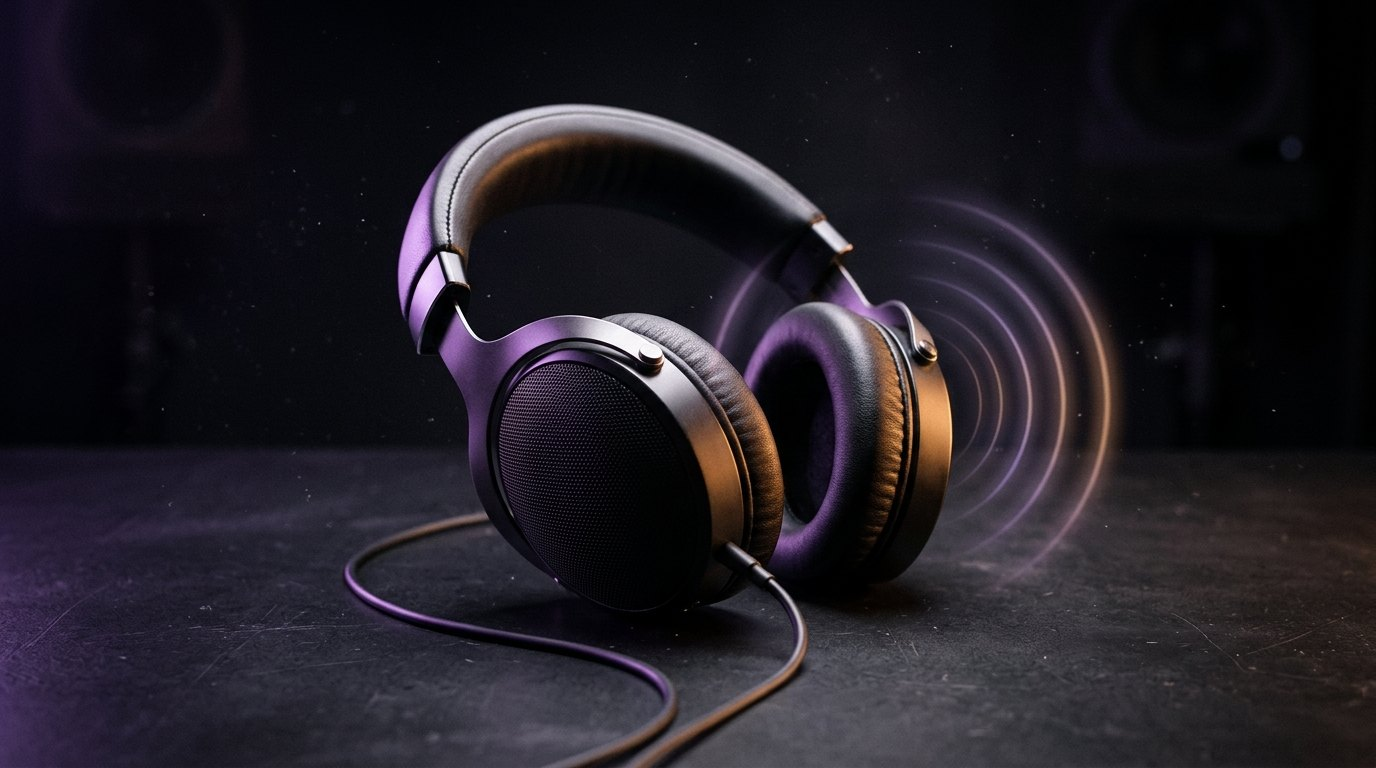
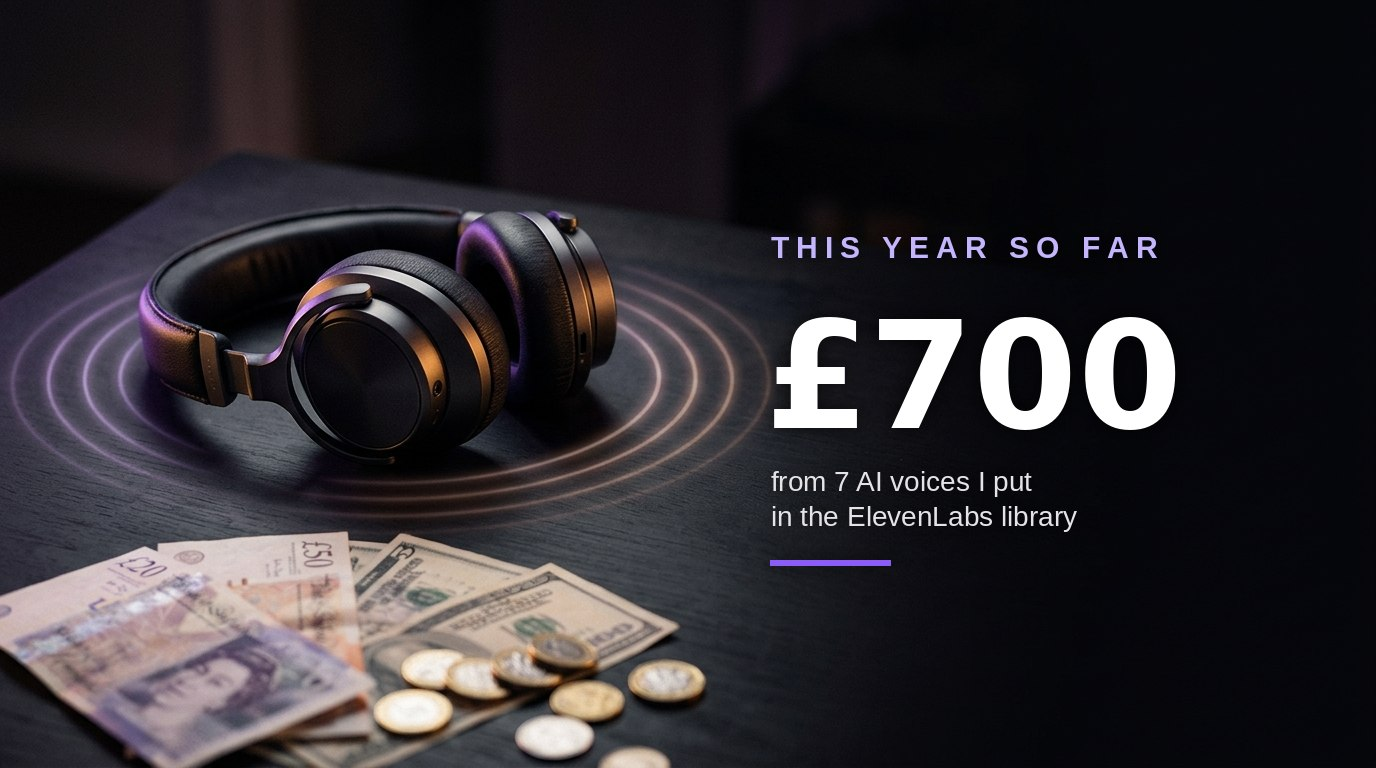
Rewrite ASMR post in Hector's voice (no em dashes) + money hero image with £700

diff --git a/how-to-make-asmr-audio-with-ai.html b/how-to-make-asmr-audio-with-ai.html
@@ -11,11 +11,11 @@
 </script>
   <meta charset="UTF-8">
   <meta name="viewport" content="width=device-width, initial-scale=1.0">
-  <title>How to Make ASMR Audio With AI (And Make Money With It) — 2026 | Hector's Hustles</title>
-  <meta name="description" content="You don't need a 3Dio or a treated room. How to make ASMR audio with AI voices — and the four ways people actually get paid for it in 2026.">
+  <title>How to Make ASMR Audio With AI (And Make Money With It) - 2026 | Hector's Hustles</title>
+  <meta name="description" content="You don't need a 3Dio or a treated room. How to make ASMR audio with AI voices, and the four ways people actually get paid for it in 2026.">
   <meta property="og:type" content="article">
-  <meta property="og:title" content="How to Make ASMR Audio With AI (And Make Money With It) — 2026">
-  <meta property="og:description" content="You don't need a 3Dio or a treated room. How to make ASMR audio with AI voices — and the four ways people actually get paid for it in 2026.">
+  <meta property="og:title" content="How to Make ASMR Audio With AI (And Make Money With It) - 2026">
+  <meta property="og:description" content="You don't need a 3Dio or a treated room. How to make ASMR audio with AI voices, and the four ways people actually get paid for it in 2026.">
   <meta property="og:image" content="https://hectorshustles.com/assets/asmr-ai-hero.jpg">
   <meta property="og:url" content="https://hectorshustles.com/how-to-make-asmr-audio-with-ai.html">
   <meta name="twitter:card" content="summary_large_image">
@@ -37,7 +37,7 @@
         "name": "Can AI whisper convincingly enough for ASMR?",
         "acceptedAnswer": {
           "@type": "Answer",
-          "text": "Yes — whispered speech and soft-spoken narration are what current voice models do best. Where they fall short is physical trigger sounds like tapping and brushing, which still need a real object and a real mic."
+          "text": "Yes, whispered speech and soft-spoken narration are what current voice models do best. Where they fall short is physical trigger sounds like tapping and brushing, which still need a real object and a real mic."
         }
       },
       {
@@ -61,7 +61,7 @@
         "name": "Can I sell ASMR audio made with AI voices?",
         "acceptedAnswer": {
           "@type": "Answer",
-          "text": "Yes, on platforms that allow synthetic voices — YouTube, Patreon, audiobook stores, and direct commissions all work. Always check the platform's current AI policy and disclose the AI voice where required."
+          "text": "Yes, on platforms that allow synthetic voices: YouTube, Patreon, audiobook stores, and direct commissions all work. Always check the platform's current AI policy and disclose the AI voice where required."
         }
       },
       {
@@ -69,7 +69,7 @@
         "name": "Do I have to tell listeners the voice is AI?",
         "acceptedAnswer": {
           "@type": "Answer",
-          "text": "Where the platform requires disclosure, yes — and it is good practice everywhere else. Label it once in the description and move on; most listeners care about the experience, not the tool."
+          "text": "Where the platform requires disclosure, yes, and it is good practice everywhere else. Label it once in the description and move on; most listeners care about the experience, not the tool."
         }
       }
     ]
@@ -103,95 +103,95 @@
 
       <figure class="mb-8">
         <img src="assets/asmr-ai-hero.jpg"
-             alt="Over-ear headphones on a dark surface with glowing sound waves, illustrating AI-generated ASMR audio"
+             alt="Over-ear headphones and banknotes on a dark surface with glowing sound waves, with £700 earned from AI voices overlaid"
              width="1376" height="768" loading="eager" decoding="async"
              class="w-full rounded-2xl border border-zinc-200 shadow-sm object-cover">
         <figcaption class="mt-3 text-xs text-zinc-500">Voice models handle the whisper; the textures still need a real mic.</figcaption>
       </figure>
 
       <div class="prose prose-zinc max-w-none text-[15px] leading-relaxed">
-        <p>You don't need a 3Dio microphone or a treated room to make ASMR audio in 2026. Modern AI voices can whisper, pause, breathe, and hold a slow, sleepy pace well enough that most listeners can't tell the difference from a real soft-spoken narrator — and you can generate a full night of sleep audio from a laptop for almost nothing. Here's the honest part, though: AI can do the voice, not the textures. Tapping on wood, brushing a microphone, crinkling paper — none of that can be faked convincingly by a voice model. This guide shows you exactly what AI is good at, what still needs a real mic, and how to combine the two.</p>
+        <p>I'll be honest, you don't need a 3Dio mic or a treated room to make ASMR audio in 2026, because I've been generating whispered voice tracks from my laptop and most listeners can't tell them apart from a real soft spoken narrator. The models I've used can whisper and pause and breathe a bit, and they hold a slow sleepy pace. But here's the honest bit I've learned the hard way: AI can do the voice and it can't do the textures. Tapping on wood, brushing a mic, crinkling paper, none of that fakes well in my experience. So here's what I've found AI is good at, what still needs a real mic, and how I'd combine the two.</p>
 
-        <p>I've spent this year working with AI voices — <a href="how-i-made-700-from-voice-cloning-in-2026.html" class="text-violet-600 hover:underline">I made £700 with voice cloning</a> on ElevenLabs in 2026 — so this isn't theory. Below is the workflow I'd actually use: write a slow script, generate the voice in short chunks, layer real textures underneath, and master it for headphones.</p>
+        <p>I've spent this year messing about with AI voices, and I already wrote about how <a href="how-i-made-700-from-voice-cloning-in-2026.html" class="text-violet-600 hover:underline">I made £700 with voice cloning</a> on ElevenLabs in 2026, so this isn't theory I've nicked from somewhere else. Below is the workflow I'd actually use: write a slow script, generate the voice in short chunks, layer real textures underneath, and master it for headphones.</p>
 
-        <h3 class="font-semibold mt-8 mb-3">What AI is actually good at</h3>
-        <p>The current generation of voice models is genuinely good at the vocal side of ASMR. Whispered speech is the standout: a good model holds a soft, breathy whisper without drifting into a stage whisper or going robotic, which is exactly what sleep tracks need. Soft-spoken narration is just as strong — calm, bedtime-story delivery with natural intonation.</p>
+        <h3 class="font-semibold mt-8 mb-3">What I've found AI is actually good at</h3>
+        <p>I'll start with what surprised me most, because whispered speech is where these models really shine for me. A good voice holds a soft breathy whisper without sliding into a stage whisper or going robotic, and that's exactly what I've wanted for sleep tracks. Soft spoken narration is just as strong, that calm bedtime story delivery that doesn't jar you awake.</p>
 
-        <p>Pacing is the quiet superpower. You can slow a voice down, stretch the pauses between lines, and place breaths where a human narrator would take them. Reworking pacing on a real recording means re-recording; with AI, you regenerate a line with more space around it. That alone saves hours on every track.</p>
+        <p>Pacing is the bit I didn't appreciate until I'd made a few tracks, and now I'd call it the quiet superpower. I slow the voice down and stretch the pauses between lines, and I drop breaths in where I'd take them myself. If a line feels rushed then I just regenerate it with more space around it. When I've recorded myself in the past, fixing pacing meant recording it all again, which drove me mad.</p>
 
-        <p>Multiple voices is another real edge. A series with three different soft-spoken narrators, or a sleep story with a narrator plus a second character, can be cast in an afternoon from stock voices — no scheduling, no sessions, no retakes. And consistency comes free: a model never gets a sore throat, never has a bad-mic day, and sounds identical in episode forty as it did in episode one. For a channel publishing nightly sleep audio, that matters more than people expect.</p>
+        <p>The other thing I've loved is casting multiple voices without any faff. I wanted a short series with a narrator plus a softer second character, and I cast both in an afternoon from stock voices, with no scheduling and no retakes. ElevenLabs has 11,000+ voices in the library, so I've never struggled to find a soft one I liked. And consistency comes free, which matters more than I expected: the model never gets a sore throat, so it sounds the same in every episode I make.</p>
 
         <div class="my-8 text-center">
           <a href="https://try.elevenlabs.io/fastaudiobook" rel="sponsored nofollow noopener" target="_blank" class="inline-block bg-violet-600 text-white font-semibold px-6 py-3 rounded-xl hover:bg-violet-700 transition-colors">Try the AI voices free →</a>
         </div>
 
         <h3 class="font-semibold mt-8 mb-3">What AI still can't fake</h3>
-        <p>Now the other side, stated plainly: AI voices cannot fake physical trigger sounds. Tapping on wood, glass, or plastic. Crinkling paper or foil. Brushing bristles across a microphone grille. Scratching, water sounds, soft clicks and mouth sounds made centimetres from a real diaphragm. These are textures, not speech, and voice models are trained on speech.</p>
+        <p>Now the other side, and I'll be blunt because I wasted time here. AI voices can't fake physical trigger sounds, in my experience. I mean tapping on wood or glass, crinkling paper, brushing bristles across a mic grille, and those soft close mic clicks made right against a real diaphragm. These are textures and not speech, and voice models are trained on speech.</p>
 
-        <p>You can hear the difference immediately. Generated "tapping" sounds like a drum sample; real tapping carries tiny variations in angle, pressure, and resonance that no model reproduces. And ASMR listeners are the most attentive audience on the internet — people who fall asleep to this every night notice in seconds.</p>
+        <p>You'll hear the difference straight away, I did. Generated tapping sounds like a drum sample to me, while real tapping carries tiny variations in angle and pressure that I've never heard a model reproduce. And ASMR listeners are the most attentive audience I've come across, because people who fall asleep to this nightly will notice in seconds.</p>
 
-        <p>So the rule is simple: if the sound comes from vocal cords, AI can probably do it. If it comes from an object, a surface, or physical contact with a microphone, you need the real thing. That doesn't kill the AI workflow — it just means the textures get recorded and the voice gets generated.</p>
+        <p>So the rule I've settled on is simple. If the sound comes from vocal cords then I'd let AI have a go, and if it comes from an object or a surface or contact with a mic then I'll record the real thing. That doesn't kill the AI workflow, it just splits the job. I record the textures and I generate the voice.</p>
 
         <h3 class="font-semibold mt-8 mb-3">Three routes</h3>
-        <p><strong>Route A: text to voice.</strong> Pick a stock soft voice, paste your script, generate. This is the fastest and cheapest route — minutes from idea to finished voice track — and it's genuinely good for whispered sleep audio, guided relaxation, and soft-spoken narration where your own voice doesn't matter. The tradeoff: anyone can use the same stock voices, so your edge has to come from the script and the sound design, not the voice itself.</p>
+        <p><strong>Route A: text to voice.</strong> This is what I'd do if I wanted something out tonight. I pick a soft stock voice and paste my script in and generate, and I've gone from idea to finished voice track in minutes this way. It's genuinely good for whispered sleep audio and guided relaxation where my own voice doesn't matter. The tradeoff is that anyone can use the same stock voices, so my edge has to be the script and the sound design.</p>
 
-        <p><strong>Route B: clone your own whisper.</strong> Record around 30 minutes of clean audio of yourself speaking softly — a quiet room, no background noise, steady distance from the mic — and train a clone of your own voice. Then you can whisper with it at 2am without waking anyone, generate retakes without re-recording, and keep one recognisable voice across every upload. The 30 minutes of clean recording is the real cost here: rushed or noisy source audio produces a clone that sounds wrong at whisper volume, where every artefact shows. Take the session seriously and the clone repays it.</p>
+        <p><strong>Route B: clone your own whisper.</strong> For this one I recorded around 30 minutes of clean audio of myself speaking softly, and I'd treat that as the minimum. I sat in a quiet room with no background noise and kept a steady distance from the mic, then trained a clone of my own voice. After that I could whisper with it late at night without waking anyone, and I've kept one recognisable voice across everything. The 30 minutes of clean recording is the real cost here, because rushed source audio gives you a clone that sounds wrong at whisper volume, where every artefact shows.</p>
 
-        <p><strong>Route C: hybrid (recommended).</strong> Record the textures yourself — tapping, brushing, page turns, room tone — and generate the voice. Then layer them together. The voice carries the script, the real textures carry the tingles, and the combination sounds like a full studio production. This is the route I'd recommend to anyone serious about ASMR as a channel or a product. It needs a mic (see the gear section below), but it's still a fraction of the cost and time of recording everything live.</p>
+        <p><strong>Route C: hybrid (recommended).</strong> This is the route I'd recommend if you're serious about ASMR as a channel or a product. I record the textures myself, so tapping and brushing and page turns and room tone, and I generate the voice, then I layer them together. The voice carries my script and the real textures carry the tingles. It needs a mic, which I've covered in the gear bit below, but it's far less time than recording everything live.</p>
 
         <h3 class="font-semibold mt-8 mb-3">Step by step</h3>
         <ol class="list-decimal pl-5 space-y-2 mt-4">
-          <li><strong>Write the script in short lines.</strong> ASMR scripts are closer to poetry than prose: one idea per line, plenty of white space, pauses written in. Read it aloud slowly — if you stumble, the generated voice will sound awkward in the same spot.</li>
-          <li><strong>Choose a soft voice.</strong> Pick a whisper-friendly stock voice or your clone. Generate a test paragraph and listen on headphones before committing to a full script.</li>
-          <li><strong>Slow the pacing.</strong> Drop the speed and widen the gaps between lines. Sleep audio runs noticeably slower than conversation. If your tool has stability or expressiveness settings, favour stability for whispers: fewer surprises.</li>
-          <li><strong>Generate in short chunks.</strong> Generate a paragraph or two at a time, never the whole script at once. Short chunks let you reject bad takes cheaply, fix mispronunciations, and keep pacing consistent. Stitch the keepers together in a free editor like Audacity.</li>
-          <li><strong>Layer an ambient bed.</strong> Put something soft under the voice: rain, brown noise, quiet room tone, gentle music with no percussion. Keep it low — the voice stays in front. This single step is what separates "AI voiceover" from "ASMR audio".</li>
-          <li><strong>Master for headphones.</strong> Light compression to even out the whisper, a gentle lift in the highs for clarity, and a loudness pass so the quietest lines stay audible. Export at the best quality your platform accepts, then listen to the whole thing on earbuds in bed. That's your QA environment.</li>
+          <li><strong>Write the script in short lines.</strong> I've learned ASMR scripts are closer to poetry than prose, so I write one idea per line with loads of white space and I write the pauses in. I read mine aloud slowly first, because if I stumble then the generated voice sounds awkward in the same spot.</li>
+          <li><strong>Choose a soft voice.</strong> I pick a whisper friendly stock voice or my clone, then I generate a test paragraph and listen on headphones before I'll commit to a full script. I've skipped this before and regretted it.</li>
+          <li><strong>Slow the pacing.</strong> I drop the speed and widen the gaps between lines, because sleep audio runs noticeably slower than conversation. If the tool has stability settings then I'd favour stability for whispers, since I've found fewer surprises is what you want.</li>
+          <li><strong>Generate in short chunks.</strong> I generate a paragraph or two at a time and never the whole script at once. Short chunks let me bin bad takes cheaply and fix mispronunciations, and they keep my pacing consistent. Then I stitch the keepers together in Audacity, which is free and does the job for me.</li>
+          <li><strong>Layer an ambient bed.</strong> I put something soft under the voice, like rain or brown noise or quiet room tone. I keep it low so the voice stays in front. This single step is what separates AI voiceover from ASMR audio in my tracks.</li>
+          <li><strong>Master for headphones.</strong> I use light compression to even out the whisper and a gentle lift in the highs for clarity, then a loudness pass so my quietest lines stay audible. I export at the best quality the platform accepts, then I listen to the whole thing on earbuds in bed. That's my QA, and I've caught loads that way.</li>
         </ol>
 
         <h3 class="font-semibold mt-8 mb-3">Gear reality check</h3>
-        <p>Forums will tell you to buy a binaural 3Dio-style rig, acoustic panels, and an expensive microphone before uploading anything. Ignore that. Here's what's genuinely needed for each route.</p>
+        <p>Forums will tell you to buy a binaural rig and acoustic panels and a pricey mic before you upload anything, and I'd say ignore all that. I've made perfectly listenable stuff without any of it. Here's what I've actually needed for each route.</p>
 
-        <p><strong>Voice-only (Routes A and B):</strong> a laptop and headphones. The voice is generated, so your recording gear barely matters. A phone mic is fine to start for the Route B training recording if the room is quiet — record in a wardrobe full of clothes and you'll be shocked how clean it sounds.</p>
+        <p><strong>Voice-only (Routes A and B):</strong> I've just used a laptop and headphones. The voice is generated so my recording gear barely matters, which still feels like cheating. A phone mic was fine for my first Route B training recording because the room was quiet, and I've recorded in a wardrobe full of clothes and been shocked how clean it sounded.</p>
 
-        <p><strong>Hybrid (Route C):</strong> a USB mic. A Blue Yeti or equivalent with a pop filter is plenty for tapping, brushing, and room tone. Record close, record quiet, record lots of variations. Buy the fancy binaural setup later, after the channel has earned it.</p>
+        <p><strong>Hybrid (Route C):</strong> I've used a USB mic and that's been plenty. A Blue Yeti or similar with a pop filter does tapping and brushing and room tone nicely. I record close and quiet and I record loads of variations. I'd only buy the fancy binaural setup later, after the channel has earned it.</p>
 
-        <h3 class="font-semibold mt-8 mb-3">How to actually make money with it</h3>
-        <p>Four routes, roughly in order of how quickly they pay. None of them are fast at the start — the first month is usually £0 regardless of which you pick. What compounds is the catalogue.</p>
-        <p><strong>YouTube plus Patreon</strong> is the classic stack: YouTube for discovery and ad revenue, Patreon for early access, exclusive tracks, and custom requests from subscribers. Sleep content earns long watch times, which the algorithm rewards.</p>
+        <h3 class="font-semibold mt-8 mb-3">How I'd actually make money with it</h3>
+        <p>I see four routes here, roughly in the order I'd expect them to pay, though I've not tried them all equally. None is fast at the start, and I'd be wary of anyone who says otherwise. What compounds is the catalogue, so that's the bit I'd focus on.</p>
+        <p><strong>YouTube plus Patreon</strong> is the classic stack I'd start with. I'd use YouTube for discovery and ad revenue, and Patreon for early access and exclusive tracks and custom requests. I've noticed sleep content earns long listening sessions, which seems to help with discovery.</p>
 
-        <p><strong>Sleep and meditation apps</strong> license or commission relaxation audio. Pitch finished tracks, not ideas — a small portfolio of polished sleep audios opens doors a pitch deck never will.</p>
+        <p><strong>Sleep and meditation apps</strong> are the second route I'd look at, since they license or commission relaxation audio. I'd pitch finished tracks and not ideas, because a small portfolio of polished sleep audios opens doors a pitch deck never will. It's on my list.</p>
 
-        <p><strong>Whisper-narrated audiobooks</strong> are an under-served niche: short fiction, poetry, and public-domain classics read in a soft voice. Services like <a href="https://fastaudiobook.com" class="text-violet-600 hover:underline">FastAudiobook</a> turn a full book into whisper-narrated audio, and you can price per finished hour like any other narrator.</p>
+        <p><strong>Whisper-narrated audiobooks</strong> feel like an under-served niche to me: short fiction and poetry and public domain classics in a soft voice. Services like <a href="https://fastaudiobook.com" class="text-violet-600 hover:underline">FastAudiobook</a> turn a full book into whisper-narrated audio, and I'd price per finished hour like any other narrator.</p>
 
-        <p><strong>Commissioned audio</strong> rounds it out: custom sleep tracks, name-inclusion relaxations, brand work for wellness companies. Start with a simple rate card per finished minute and raise it as your backlog grows.</p>
+        <p><strong>Commissioned audio</strong> rounds it out: custom sleep tracks and name inclusion relaxations and brand work for wellness companies. I'd start with a simple rate card per finished minute and raise it as my backlog grows.</p>
 
-        <p><strong>What it realistically pays.</strong> Think in finished minutes, not hours. A 20-minute sleep track is a product; price it like one. Most people starting out undercharge badly because they price the generation time (minutes) instead of the result (a listener sleeping). Build a rate card with three tiers — a single track, a five-track pack, and a monthly custom slot — and let the middle tier do the work. Patreon memberships compound slowly but predictably; commissions pay immediately but don't scale without your time.</p>
+        <p><strong>What it realistically pays.</strong> I've had to learn to think in finished minutes and not hours. A sleep track is a product and I'd price it like one, because most people starting out undercharge badly. They price the generation time, which is minutes, instead of the result, which is a listener sleeping. I'd build a rate card with three tiers, a single track and a small pack and a monthly custom slot, and let the middle tier do the work.</p>
 
-        <p><strong>The honest maths:</strong> one channel with a few hundred regular listeners will not replace a job. Ten catalogue tracks that each sell occasionally, across three platforms, will out-earn one viral track that sells once. Build for the catalogue.</p>
+        <p><strong>The honest maths:</strong> a small channel with a modest regular audience won't replace a job, and I'd rather tell you that straight. A catalogue of tracks that each sell occasionally, across a few platforms, will out-earn one lucky track that sells once. So I'd build for the catalogue. For context, I've made £700 from 7 voices I published to the ElevenLabs voice library in 2026, separate from anything I've tested with ASMR.</p>
 
         <div class="my-8 text-center">
           <a href="https://try.elevenlabs.io/fastaudiobook" rel="sponsored nofollow noopener" target="_blank" class="inline-block bg-violet-600 text-white font-semibold px-6 py-3 rounded-xl hover:bg-violet-700 transition-colors">Try the AI voices free →</a>
         </div>
 
-        <h3 class="font-semibold mt-8 mb-3">The rules</h3>
+        <h3 class="font-semibold mt-8 mb-3">The rules I'd stick to</h3>
         <ul class="list-disc pl-5 space-y-2 mt-4">
-          <li><strong>Only clone voices you own</strong> or hold explicit written consent for. Never clone a celebrity, a public figure, or anyone else's voice without permission. No impersonation, ever.</li>
-          <li><strong>Keep mainstream platforms clean:</strong> no NSFW content on YouTube, Patreon, or audiobook stores. Violations end accounts, and appeals rarely succeed.</li>
-          <li><strong>Disclose AI where the platform requires it.</strong> YouTube requires disclosure of realistic synthetic content, and audiobook platforms have their own AI-narration labels. Check the current policy before you publish — and label honestly regardless, because listeners object far more to being misled than to AI voices.</li>
-          <li><strong>Respect script copyright:</strong> write your own material, license properly, or stick to public-domain texts.</li>
+          <li><strong>Only clone voices you own</strong> or hold explicit written consent for. I'd never clone a celebrity or a public figure or anyone else's voice without permission. No impersonation, ever, and I don't bend on this.</li>
+          <li><strong>Keep mainstream platforms clean:</strong> I publish no NSFW content on YouTube, Patreon, or audiobook stores. Violations end accounts and appeals rarely succeed, so I don't risk it.</li>
+          <li><strong>Disclose AI where the platform requires it.</strong> YouTube requires disclosure of realistic synthetic content and audiobook platforms have their own AI narration labels, so I check the current policy before I publish. I'd label honestly regardless, because I've found listeners object far more to being misled than to AI voices.</li>
+          <li><strong>Respect script copyright:</strong> I write my own material or I license properly or I stick to public domain texts. It's not worth the headache otherwise.</li>
         </ul>
 
         <h3 class="font-semibold mt-8 mb-3">FAQ</h3>
-        <p><strong>Can AI whisper convincingly enough for ASMR?</strong><br>Yes — whispered speech and soft-spoken narration are what current voice models do best. Where they fall short is physical trigger sounds like tapping and brushing, which still need a real object and a real mic.</p>
+        <p><strong>Can AI whisper convincingly enough for ASMR?</strong><br>Yes, whispered speech and soft-spoken narration are what current voice models do best. Where they fall short is physical trigger sounds like tapping and brushing, which still need a real object and a real mic.</p>
 
         <p><strong>How much audio do I need to clone my own voice?</strong><br>Around 30 minutes of clean, quiet recording. Quality matters more than quantity: consistent distance, no background noise, and soft delivery if you plan to whisper with the clone.</p>
 
         <p><strong>Do I need an expensive microphone?</strong><br>Not to start. Voice-only tracks need nothing but a laptop and headphones, and a phone mic is fine for a first cloning session. Buy a USB mic only if you go hybrid and record your own textures.</p>
 
-        <p><strong>Can I sell ASMR audio made with AI voices?</strong><br>Yes, on platforms that allow synthetic voices — YouTube, Patreon, audiobook stores, and direct commissions all work. Always check the platform's current AI policy and disclose the AI voice where required.</p>
+        <p><strong>Can I sell ASMR audio made with AI voices?</strong><br>Yes, on platforms that allow synthetic voices: YouTube, Patreon, audiobook stores, and direct commissions all work. Always check the platform's current AI policy and disclose the AI voice where required.</p>
 
-        <p><strong>Do I have to tell listeners the voice is AI?</strong><br>Where the platform requires disclosure, yes — and it's good practice everywhere else. Label it once in the description and move on; most listeners care about the experience, not the tool.</p>
+        <p><strong>Do I have to tell listeners the voice is AI?</strong><br>Where the platform requires disclosure, yes, and it's good practice everywhere else. Label it once in the description and move on; most listeners care about the experience, not the tool.</p>
 
         <p class="mt-8">More experiments like this on the <a href="/posts.html" class="text-violet-600 hover:underline">posts page</a>.</p>
       </div>
